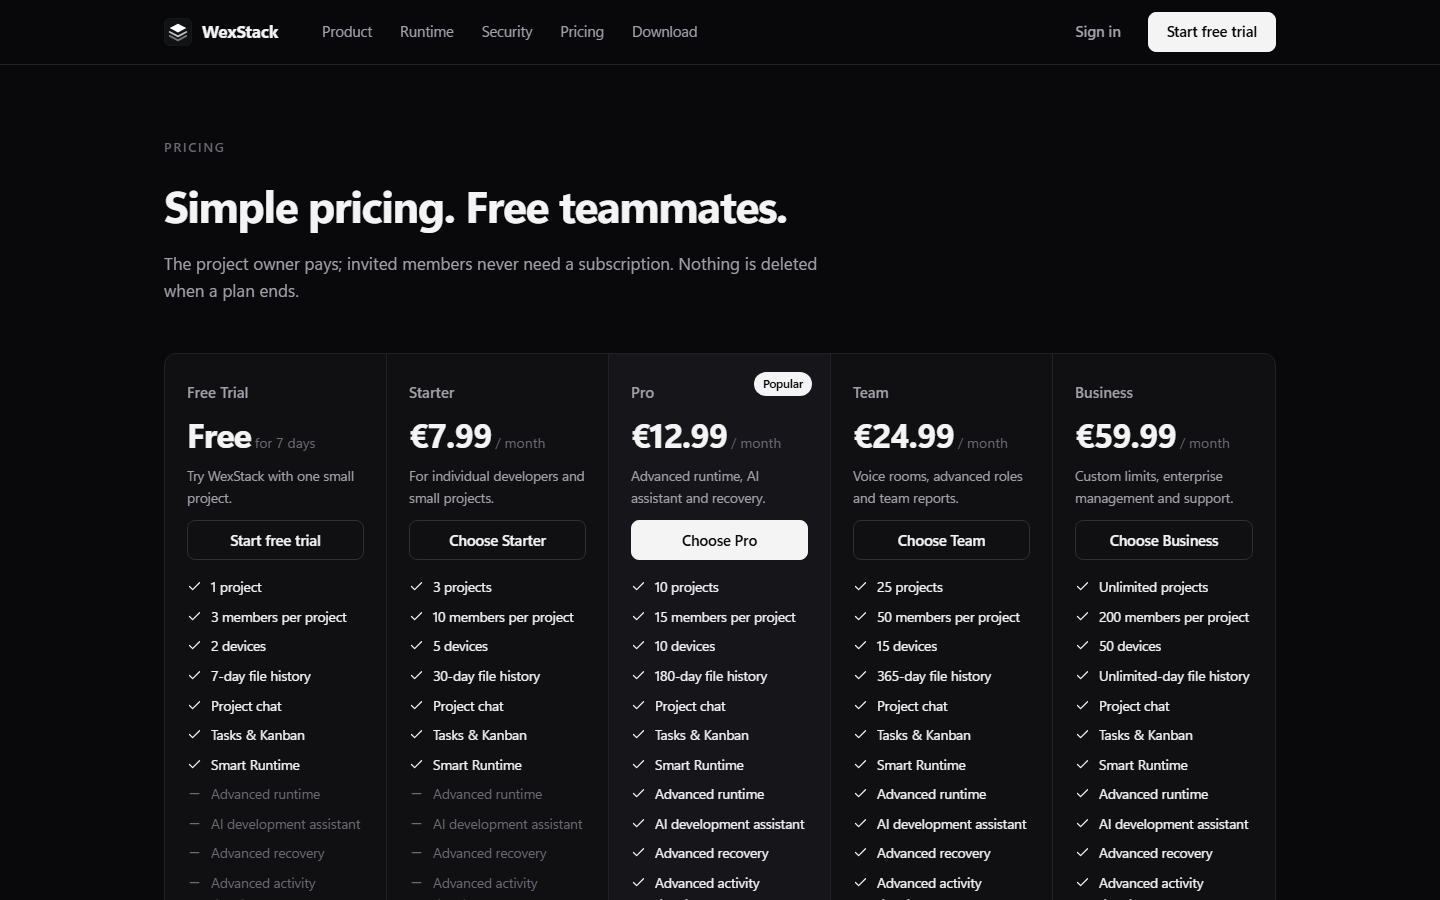
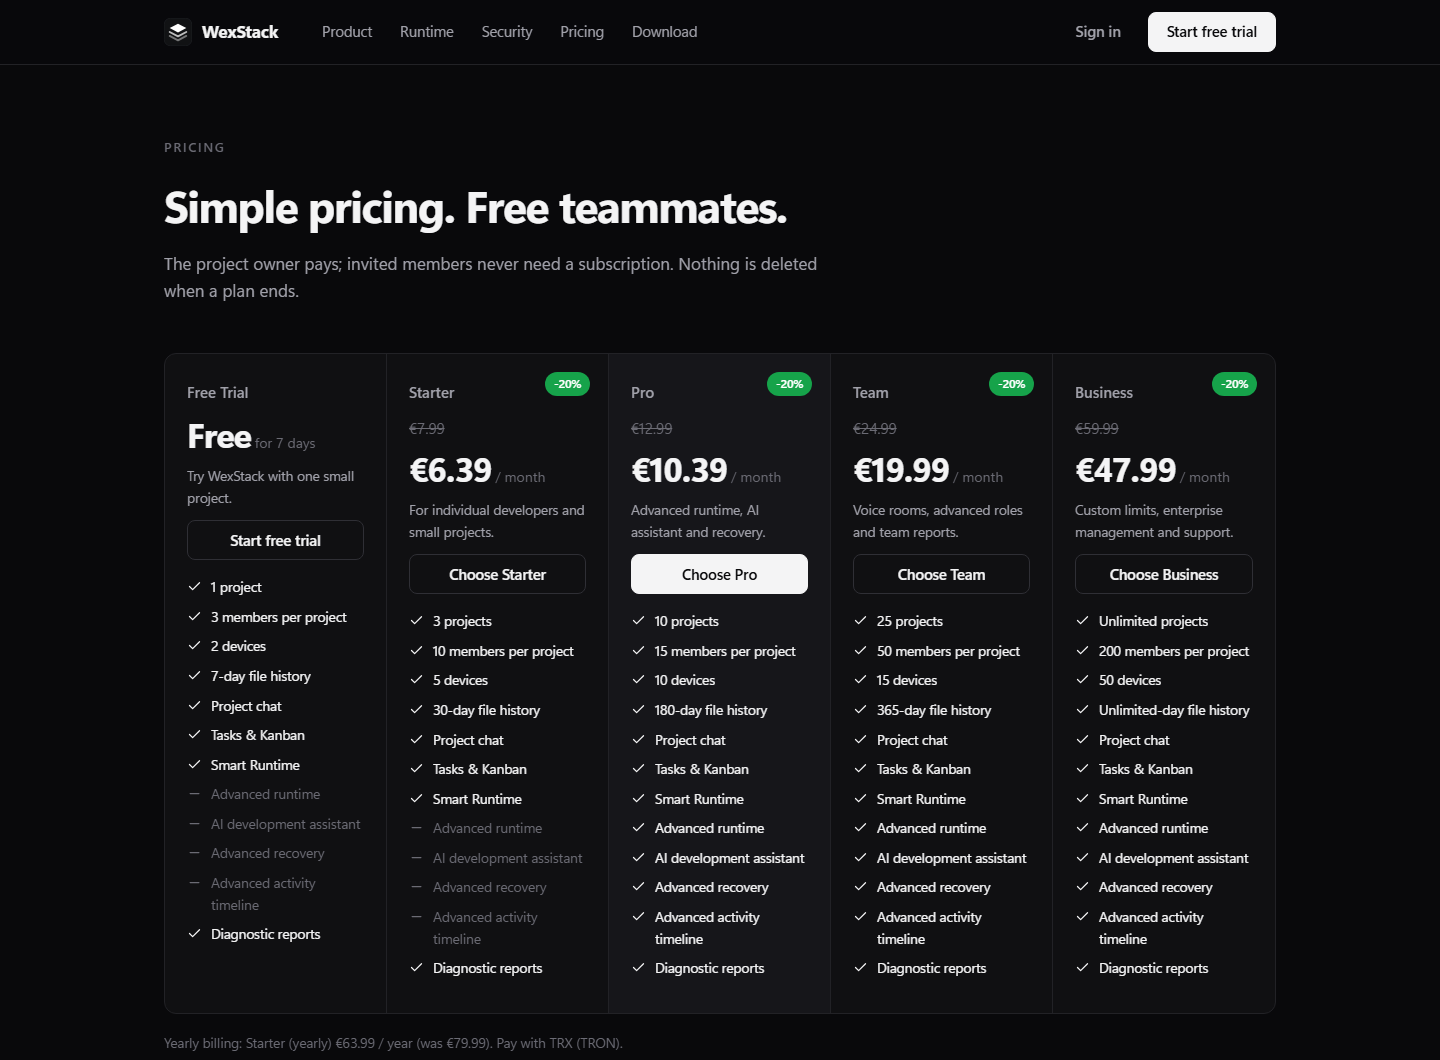
Update pricing image (20% off) and language list

diff --git a/README.md b/README.md
@@ -122,7 +122,7 @@ certutil -hashfile "%TEMP%\WexStack-Setup.exe" SHA256
 - **Share server access** with a teammate without telling them a password.
 
 ### ✨ Everything else
-- 20 interface languages (full Turkish), dark and light theme, Ctrl+K command palette.
+- 19 interface languages, dark and light theme, Ctrl+K command palette.
 - Quiet notification sounds (can be turned off), tray icon, start with Windows.
 - Accounts with sessions and device management; payments by crypto (TRX).
 
@@ -142,7 +142,7 @@ Calls, screen sharing and remote help are part of the Team plan. See **[wexstack
 | **0.5.0** | Project trash (30 days), private messages, remote help, smarter same-file merge, notification sounds |
 | **0.4.1** | Notices fade out by themselves |
 | **0.4.0** | Delete a project for everyone, friends, screen sharing with chosen people, watch without a microphone |
-| **0.3.8 – 0.3.9** | 20 languages, compact Problems panel, Ctrl+K command palette |
+| **0.3.8 – 0.3.9** | 19 languages, compact Problems panel, Ctrl+K command palette |
 | **0.3.3 – 0.3.7** | Calls & screen sharing, server monitoring and backups, project terminal, Run from GitHub |
 | **0.3.0 – 0.3.2** | Servers: SSH terminal, files, deploy, domains, databases, password-free sharing |
 | **0.2.0** | Restore points |
@@ -187,7 +187,7 @@ curl -L -o "%TEMP%\WexStack-Setup.exe" https://wexstack.com/downloads/WexStack-S
 - Arkadaşlar ve özel mesajlar.
 - Herhangi bir projeyi tek tıkla çalıştır, GitHub'dan indirip çalıştır, hataları dosya ve satırıyla gör.
 - Sunucular: terminal, dosyalar, tek tıkla yayınlama, alan adı + HTTPS, veritabanı, izleme, yedekleme, şifresiz erişim paylaşımı.
-- 20 dil (tam Türkçe), açık/koyu tema, otomatik güncelleme, kısık bildirim sesleri.
+- 19 dil, açık/koyu tema, otomatik güncelleme, kısık bildirim sesleri.
 
 > "Windows bilgisayarınızı korudu" uyarısı çıkarsa **Ek bilgi → Yine de çalıştır**'a bas. Uygulama ücretli imza sertifikası
 > olmadığı için bu uyarıyı alıyor; dosyanın SHA-256 değerini yukarıdaki komutla kontrol edebilirsin.

diff --git a/CHANGELOG.md b/CHANGELOG.md
@@ -41,7 +41,7 @@ Every version installs over the previous one and keeps your data. The app offers
 
 ## 0.3.8 — Languages and command palette
 
-- **20 interface languages** (full Turkish; core texts in Azerbaijani, German, Spanish, French, Italian, Portuguese, Dutch,
+- **19 interface languages** (English, Turkish, Azerbaijani, German, Spanish, French, Italian, Portuguese, Dutch,
   Polish, Russian, Ukrainian, Arabic, Persian, Hindi, Indonesian, Chinese, Japanese, Korean). Right-to-left for Arabic and Persian.
 - Compact **Problems** panel: one-line summary, the first problems at a glance, *Show all*, errors/warnings filter, copy.
 - **Ctrl+K** command palette: jump to any page, project or server, switch theme or language.
